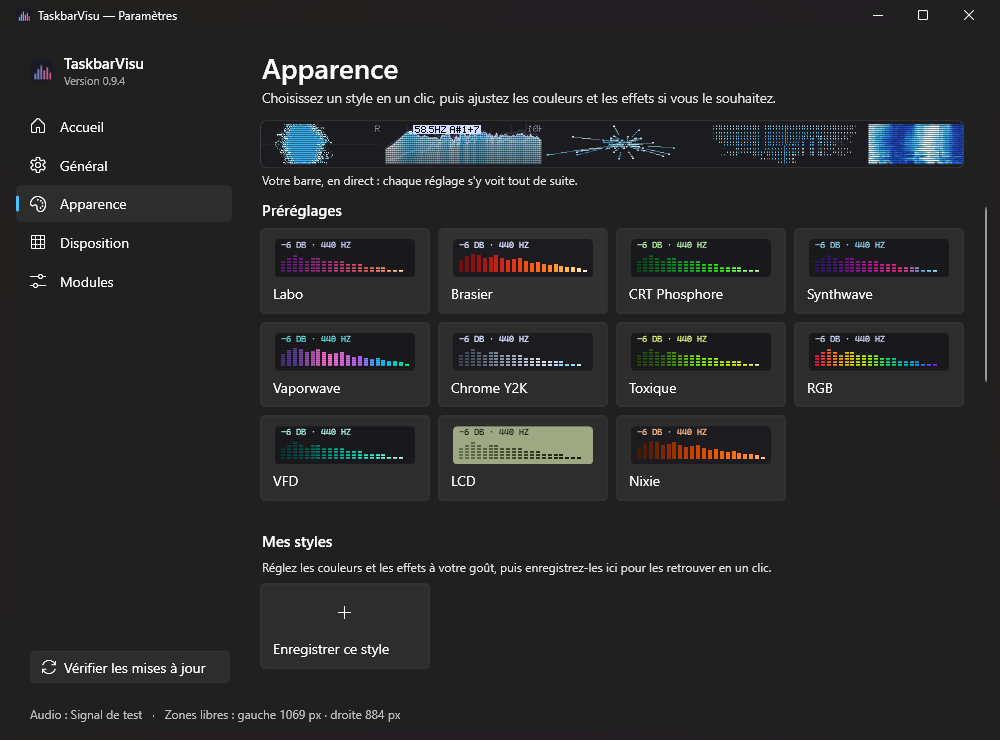
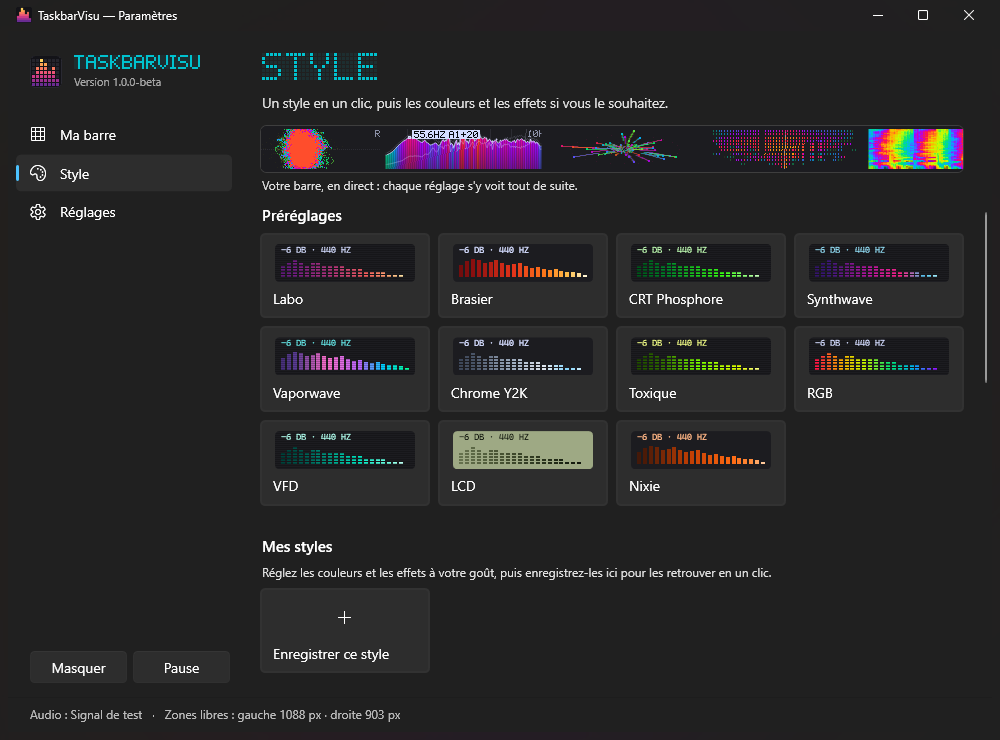
Docs: screenshots and page descriptions for the new settings window
The README's style screenshots (English and French) and the welcome guide capture now show the
three-page window with its dot-matrix titles and new icon. TECHNIQUE.md describes My taskbar, Style
and Settings instead of the five old pages. The three navigation tabs also get a proper name for
screen readers (they were announced as TabItem).

diff --git a/src/TaskbarVisu/UI/SettingsWindow.xaml.cs b/src/TaskbarVisu/UI/SettingsWindow.xaml.cs
@@ -94,6 +94,10 @@ public partial class SettingsWindow : Window
         TabBar.Header = NavHeader("", "Ma barre");
         TabStyle.Header = NavHeader("", "Style");
         TabSettings.Header = NavHeader("", "Réglages");
+        // Les en-têtes mêlent icône et texte : le nom dit aux lecteurs d'écran quelle page ils ouvrent.
+        System.Windows.Automation.AutomationProperties.SetName(TabBar, Loc.T("Ma barre"));
+        System.Windows.Automation.AutomationProperties.SetName(TabStyle, Loc.T("Style"));
+        System.Windows.Automation.AutomationProperties.SetName(TabSettings, Loc.T("Réglages"));
         AppName.Lit = BrandBrush();
 
         BuildLayout();

diff --git a/docs/TECHNIQUE.md b/docs/TECHNIQUE.md
@@ -31,8 +31,8 @@ posés dans les espaces libres à gauche et à droite des icônes, sans cadre.
 
 Disposition par défaut : niveaux, spectrogramme et spectre à gauche ; imageur, accordeur et forme d'onde
 à droite. VU-mètre, historique de sonie, piano roll, oscilloscope XY et données brutes
-sont disponibles mais masqués (page Disposition). Au lancement, chaque module fait un court
-*self-test* (balayage LED, « OK ») avant de s'allumer ; désactivable dans Général.
+sont disponibles mais masqués (page Ma barre). Au lancement, chaque module fait un court
+*self-test* (balayage LED, « OK ») avant de s'allumer ; désactivable dans Réglages.
 
 ### Détection de tonalité
 
@@ -142,7 +142,7 @@ la trace liste aussi les pics de chaque image (fréquence:amplitude:part non exp
 - Chaque module peut avoir ses propres couleurs : une autre palette, son propre dégradé ou une couleur unie.
 - Pas de fond : les modules se fondent dans la barre (fond écran LCD olive clair en option, pour le style LCD).
 - Mes styles : le style actuel (couleurs, effets, fond, couleurs des modules) enregistré sous un nom et réappliqué
-  en un clic depuis Apparence ou Accueil ; le menu « ⋯ » le met à jour, le renomme, copie son code ou le supprime.
+  en un clic depuis la page Style ; le menu « ⋯ » le met à jour, le renomme, copie son code ou le supprime.
 - Partager un style : code court `TBV1:…` (JSON compressé, à coller sur Discord) ou fichier `.tbvstyle`.
   Le style comprend palette, effets, fond et couleurs de chaque module, pas la disposition.
 
@@ -197,38 +197,37 @@ l'ensemble de travail redescend sous ≈ 30 Mo.
 ## Langues
 
 Français, English, Español, Deutsch : la langue de Windows est utilisée automatiquement
-(anglais si elle n'est pas disponible), modifiable dans Général > Langue. Les traductions
+(anglais si elle n'est pas disponible), modifiable dans Réglages > Langue. Les traductions
 sont dans `Core/Loc.cs` (le texte français sert de clé).
 
 ## Réglages
 
 Clic sur l'icône de la zone de notification → fenêtre de réglages, comme les Paramètres de Windows 11 :
-menu à gauche, et chaque réglage est une carte avec une icône et une phrase d'explication.
+trois pages à gauche, et chaque réglage est une carte avec une icône et une phrase d'explication. Chaque réglage
+n'est qu'à un seul endroit. Les titres des pages et le nom de l'application sont en matrice de points 5×7, la police
+des modules, allumés à la couleur du style actif. En bas du menu, sur chaque page : Masquer et Pause, et le bouton
+d'installation quand une nouvelle version est disponible.
 
-- **Accueil** : ce qui est écouté, la place libre sur la barre, boutons Masquer / Pause, les styles en un
-  clic, les modules affichés (un clic ouvre le module dans Disposition) et les raccourcis utiles.
-- **Général** : démarrage (avec Windows, fermer vers la zone de notification, animation d'allumage),
-  source audio, langue, écran (principal, tous, ou un écran précis), plein écran, raccourci clavier,
-  mises à jour, i/s, résolution FFT, économie d'énergie, dossier des réglages.
-- **Apparence** : préréglages en cartes (le style actif est entouré), couleurs (palette, animation des couleurs,
-  textes, clair / sombre), effets, Mes styles (enregistrer le style actuel), partage de style replié.
+- **Ma barre** : la barre des tâches en miniature, modules à l'échelle et place restante par zone.
+  Un clic sur un module le sélectionne : juste dessous, sa largeur (60 à 400 px), décaler, changer de côté,
+  retirer, puis toutes ses options (couleurs, réglages propres, « Plus d'options » replié, réinitialiser) ;
+  on peut aussi le glisser. Ensuite, « Ajouter un module » : les modules qui ne sont pas sur la barre, rangés
+  par catégorie (Volume, Fréquences, Stéréo, Notes, Spectacle, Signal brut), chacun avec un aperçu en direct
+  sur le son du moment et + Gauche / + Droite. Icônes alignées à gauche : deux zones ou tout au centre.
+  « Placement et espacement » replié en bas (étirement ou placement, espacement, fondu, marge verticale).
+- **Style** : préréglages en cartes (le style actif est entouré), Mes styles (enregistrer le style actuel),
+  couleurs (palette, animation des couleurs, textes, clair / sombre), effets, partage de style replié.
   En haut, épinglée, la barre en direct : les modules affichés tournent sur le son du moment, chaque réglage s'y voit tout de suite.
-- **Disposition** : la barre des tâches en miniature, modules à l'échelle et place restante par zone.
-  Un clic sur un module ouvre ses réglages (largeur de 60 à 400 px, décaler, changer de côté, retirer,
-  options) ; on peut aussi le glisser. En dessous : tous les modules rangés en six catégories (Volume, Fréquences,
-  Stéréo, Notes, Spectacle, Signal brut) avec un filtre, chacun avec un aperçu en direct sur le son du moment
-  (+ Gauche / + Droite, ou « Sur la barre » s'il y est déjà),
-  icônes alignées à gauche (deux zones ou tout au centre), puis les réglages fins repliés (étirement ou
-  placement, espacement, fondu, marge verticale).
+- **Réglages** : source audio, démarrage (avec Windows, fermer vers la zone de notification, animation
+  d'allumage, guide), affichage (langue, écran principal, tous ou un écran précis, plein écran, raccourci
+  clavier), mises à jour, aide et diagnostic, puis replié : i/s, résolution FFT, économie d'énergie, dossier des réglages.
 - **Guide de démarrage** : au premier lancement, cinq étapes avec « Passer » toujours visible. Les zones
   libres clignotent sur la vraie barre, choix d'une ambiance (préréglage) et d'un pack de modules
   (Studio, Musicien, Minimal ou « Je choisis moi-même », qui part d'une barre vide), source audio, démarrage et raccourci, puis une
-  flèche sur la barre montre l'icône de la zone de notification. Il se rejoue depuis Accueil ou Général.
+  flèche sur la barre montre l'icône de la zone de notification. Il se rejoue depuis Réglages.
 
   ![Guide de démarrage](welcome.png)
 
-- **Modules** : options propres à chaque module, réinitialisables ; modules affichés d'abord, puis les masqués rangés par catégorie
-  (avec « Afficher sur la barre »).
 
 Réglages et journal : `%APPDATA%\TaskbarVisu\` (`settings.json`, `log.txt`). Mode portable : avec un fichier
 `portable.txt` à côté de `TaskbarVisu.exe` (fourni dans le zip portable), ils vont dans le dossier `data`
@@ -264,7 +263,7 @@ Arguments : `--tray` (démarre sans ouvrir les réglages, utilisé par le démar
 `--dump <dossier>` (diagnostic : PNG du rendu et profil toutes les 5 s : temps et octets alloués par
 module, mémoire, collectes et types les plus alloués),
 `--selftest-ui` (diagnostic : construit la fenêtre de réglages et le guide hors écran puis quitte ; avec
-`--dump`, captures de chaque onglet et de chaque étape du guide),
+`--dump`, captures de chaque page et de chaque étape du guide),
 `--guide zones|tray` (diagnostic : affiche un repère du guide de démarrage sur la barre),
 `--test-signal` (diagnostic : signal synthétique à la place de la capture, rien n'est joué),
 `--headless` (diagnostic : instance séparée qui n'affiche aucune fenêtre),

diff --git a/README.fr.md b/README.fr.md
@@ -69,7 +69,7 @@ De vrais instruments de mesure, toujours visibles pendant que vous produisez, mi
 ## Choisissez un look
 
 <p align="center">
-  <img src="docs/appearance.fr.png" width="85%" alt="La page Apparence de la fenêtre de réglages : l'aperçu en direct de la barre en haut, puis onze préréglages.">
+  <img src="docs/appearance.fr.png" width="85%" alt="La page Style de la fenêtre de réglages : l'aperçu en direct de la barre en haut, puis onze préréglages.">
 </p>
 
 Onze préréglages en un clic, de *Labo* et *CRT Phosphore* aux looks matériels : *VFD*, *LCD*, *Nixie*.

diff --git a/README.md b/README.md
@@ -69,7 +69,7 @@ Real meters, always in view while you produce, mix or practise.
 ## Pick a look
 
 <p align="center">
-  <img src="docs/appearance.png" width="85%" alt="The Appearance page of the settings window: the live taskbar preview on top, then eleven presets.">
+  <img src="docs/appearance.png" width="85%" alt="The Style page of the settings window: the live taskbar preview on top, then eleven presets.">
 </p>
 
 Eleven presets in one click, from *Lab* and *CRT Phosphor* to hardware looks: *VFD*, *LCD*, *Nixie*.
